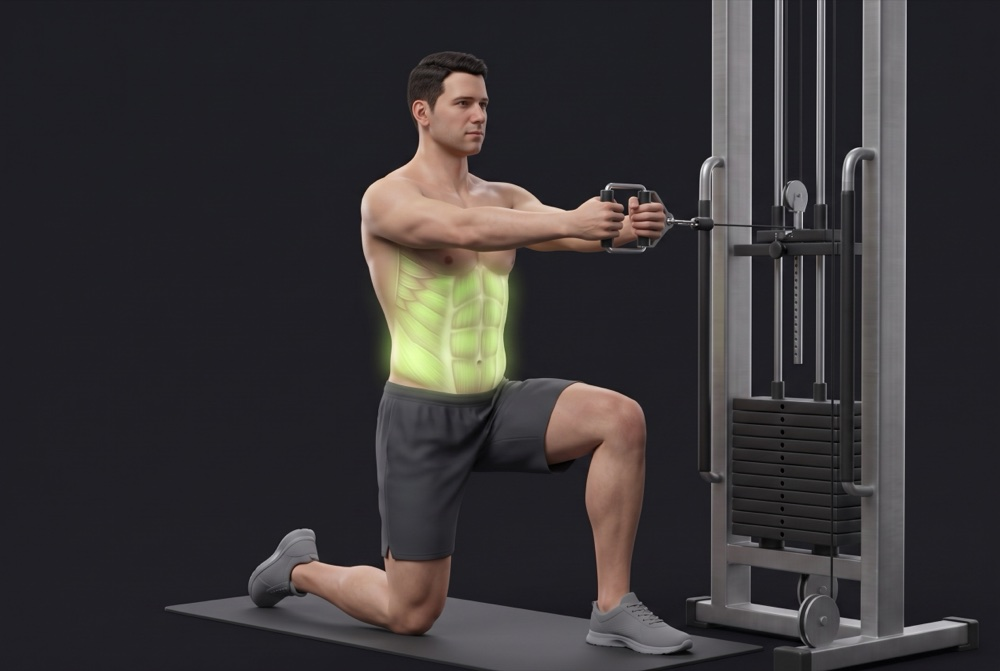
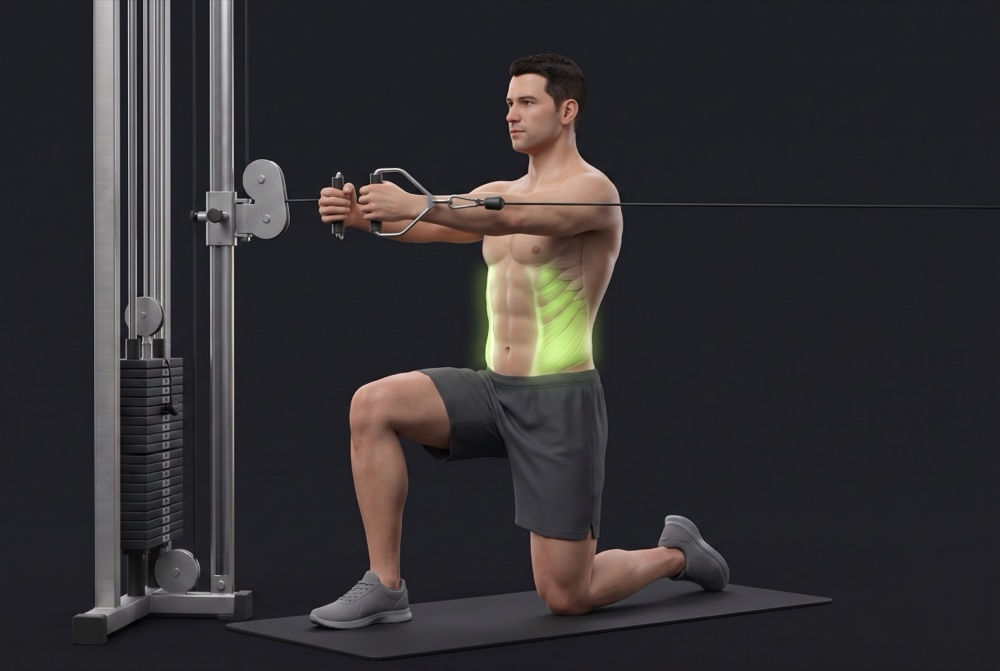
Fix faulty generated images: cable geometry, glow bleed, wrong movements
Follow-up pass on 13 images after reviewing the first batch.

Prompt-craft fixes that worked:
- Glow bleed: naming only the target muscle produced a green wash over the whole
  torso. Adding "every other muscle stays in normal matte skin tone, no green
  spill" confined it correctly in one pass — tricep-pushdown and lat-pulldown
  are now precise.
- Cable geometry: unspecified pulley height had the tricep pushdown wired to a
  LOW pulley, which is a different exercise entirely. Every cable movement now
  states pulley height and attachment.
- Duplicate machines: renders kept adding a second cable tower behind the
  figure. Now a style-block rule: "exactly one piece of equipment".
- lat-pulldown switched to a rear view — it was highlighting lats from the
  front, where they aren't visible. No wording would have fixed that.
- overhead-rope-extension kept resolving to a pulldown until the prompt led with
  hand and elbow position instead of the rig.
- muscles/lower-back was factually wrong (upper back, not lumbar erectors).

seated-horizontal-leg-press deliberately no longer attempts the 90-degree
position. Asking for "the bottom of the press" made the model put both feet on
the floor instead of the platform — worse than not showing the angle. The
formLimit warning pill carries that rule in both Plan and Log, which is more
reliable than a rendered joint angle. The image's job is machine recognition.
[…]

diff --git a/assets/exercises/SOURCES.md b/assets/exercises/SOURCES.md
@@ -39,11 +39,29 @@ input. `tools/gen-images.mjs` refuses to regenerate a reference without
 
 ## Known imperfections
 
-Reviewed and accepted rather than re-rolled. Worth fixing if you regenerate:
+Reviewed and accepted rather than re-rolled further. Fix these if you regenerate.
 
 | Image | Issue |
 | --- | --- |
-| `muscles/lower-back.jpg` | Highlights the upper/mid back, not the lumbar erectors. Factually wrong. Lowest-impact of the set, since `lower-back` is deliberately untargeted. |
-| `muscles/obliques.jpg` | Highlights the front abdominal wall rather than the flanks. |
-| `exercises/seated-horizontal-leg-press.jpg` | Only one leg on the platform, and caught near lockout so the 90-degree stop is not depicted. The machine type and flat spine are correct. |
-| Upper-body exercise glow | The highlight covers most of the torso rather than one muscle — the prompt over-corrected away from an earlier too-small blob. The muscle images carry precise anatomy instead. |
+| `pallof-press`, `half-kneeling-pallof-press` | The glow covers the whole midsection instead of just the flanks. Three phrasings were tried; the obliques sit directly beside the abs and the model does not reliably separate adjacent muscles in the same region. Position and machine are correct, which is what matters mid-workout. |
+| `muscles/obliques.jpg` | Same adjacency problem — also tints the lower back. |
+| `seated-horizontal-leg-press` | Shows a mid-to-extended knee angle, not the 90-degree stop. This is deliberate: asking for "the bottom of the press" made the model put both feet on the floor instead of the platform. The `formLimit` warning pill in the UI carries the 90-degree rule far more reliably than a rendered joint angle ever could. The image's job is machine recognition. |
+
+## What went wrong along the way
+
+Kept as notes for whoever regenerates these:
+
+- **Degrees are ignored.** "30-degree incline" produced 45. Describing geometry
+  against landmarks works — "about one third of the way up from flat to vertical".
+- **Say what must NOT glow.** Naming only the target muscle produced a green wash
+  over the whole torso. Adding "every other muscle stays in normal matte skin
+  tone, no green spill" fixed it in one pass.
+- **Say where the cable comes from.** Unspecified pulley height gave a tricep
+  pushdown wired to a low pulley, which is not the exercise. Every cable
+  movement now states pulley height and attachment.
+- **Say "exactly one piece of equipment".** Renders kept adding a second cable
+  tower behind the figure.
+- **Lead with the body, not the rig.** The overhead extension resolved to a
+  pulldown until the prompt described hand and elbow position first.
+- **Never regenerate a style reference casually.** Doing so restyles all 45
+  downstream images. `gen-images.mjs` now requires `--regen-reference`.
